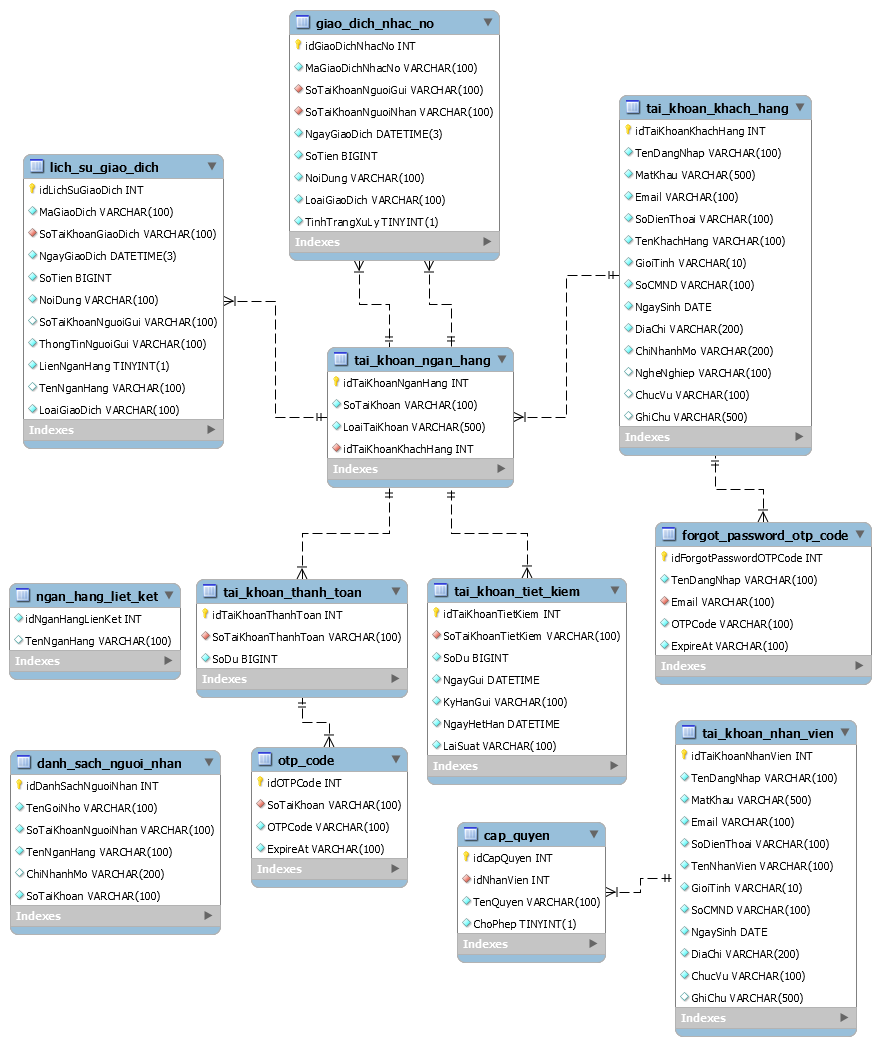
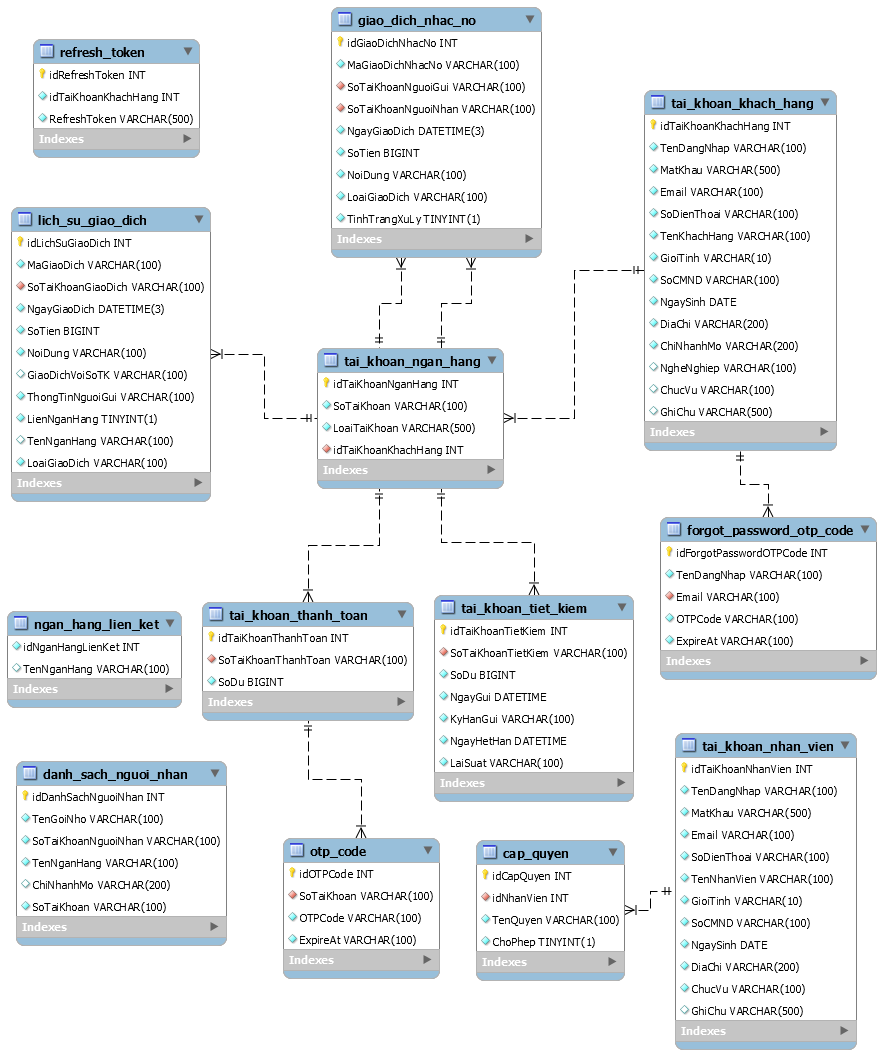
Thêm bảng RefreshToken, Đổi tên bảng ngan_hang_lien_ket, sửa lịch sử giao dịch "SoTaiKhoanNguoiGui"->"GiaoDichVoiSoTK"

Changed region(s): [[0.0, 0.0612, 1.0, 1.0], [0.3061, 0.0, 0.6122, 0.4895], [0.0, 0.0306, 0.2755, 0.4895]]

diff --git a/test/exchangeAdmin.js b/test/exchangeAdmin.js
@@ -3,7 +3,7 @@
 //     "NgayGiaoDich": "2020/1/1",
 //     "SoTien": 5000,
 //     "NoiDung": "A chuyen tien B",
-//     "SoTaiKhoanNguoiGui": "",
+//     "GiaoDichVoiSoTK": "",
 //     "ThongTinNguoiGui": "Nhan vien A chuyen tien",
 //     "LienNganHang": 0,
 //     "TenNganHang": "",
@@ -15,7 +15,7 @@
 //     "NgayGiaoDich": "2020/1/1",
 //     "SoTien": 5000,
 //     "NoiDung": "A chuyen tien B",
-//     "SoTaiKhoanNguoiGui": "",
+//     "GiaoDichVoiSoTK": "",
 //     "ThongTinNguoiGui": "Nhan vien A chuyen tien",
 //     "LienNganHang": 0,
 //     "TenNganHang": "",
@@ -28,7 +28,7 @@
 //     "NgayGiaoDich": "2020/1/1",
 //     "SoTien": 5000,
 //     "NoiDung": "A chuyen tien B",
-//     "SoTaiKhoanNguoiGui": "",
+//     "GiaoDichVoiSoTK": "",
 //     "ThongTinNguoiGui": "Nhan vien A chuyen tien",
 //     "LienNganHang": 0,
 //     "TenNganHang": "",
@@ -40,7 +40,7 @@
 //     "NgayGiaoDich": "2020/1/1",
 //     "SoTien": "abc",
 //     "NoiDung": "A chuyen tien B",
-//     "SoTaiKhoanNguoiGui": "",
+//     "GiaoDichVoiSoTK": "",
 //     "ThongTinNguoiGui": "Nhan vien A chuyen tien",
 //     "LienNganHang": 0,
 //     "TenNganHang": "",
@@ -52,7 +52,7 @@
 //     "NgayGiaoDich": "2020/1/1",
 //     "SoTien": 50000,
 //     "NoiDung": "A chuyen tien B",
-//     "SoTaiKhoanNguoiGui": "",
+//     "GiaoDichVoiSoTK": "",
 //     "ThongTinNguoiGui": "Nhan vien A chuyen tien",
 //     "LienNganHang": 0,
 //     "TenNganHang": "abc",
@@ -65,7 +65,7 @@
 //     "NgayGiaoDich": "2020/1/1",
 //     "SoTien": 50000,
 //     "NoiDung": "A chuyen tien B",
-//     "SoTaiKhoanNguoiGui": "",
+//     "GiaoDichVoiSoTK": "",
 //     "ThongTinNguoiGui": "Nhan vien A chuyen tien",
 //     "LienNganHang": 1,
 //     "TenNganHang": "AGRIBANK",
@@ -77,7 +77,7 @@
 //     "NgayGiaoDich": "2020/1/1",
 //     "SoTien": 50000,
 //     "NoiDung": "A chuyen tien B",
-//     "SoTaiKhoanNguoiGui": "456456456",
+//     "GiaoDichVoiSoTK": "456456456",
 //     "ThongTinNguoiGui": "Nhan vien A chuyen tien",
 //     "LienNganHang": 1,
 //     "TenNganHang": "AGRIBANK",

diff --git a/Routes/Internal_AccountBank.route.js b/Routes/Internal_AccountBank.route.js
@@ -338,7 +338,7 @@ router.post('/my-account-number/internal-transfer', InternalOTPVerify, async (re
         "NgayGiaoDich": moment(ts).format("YYYY-MM-DD HH:mm:ss.SSS"), //thời điểm hiện tại
         "SoTien": payload.Amount-FeeDich,
         "NoiDung": payload.Message,
-        "SoTaiKhoanNguoiGui": payload.DestinationAccountNumber,
+        "GiaoDichVoiSoTK": payload.DestinationAccountNumber,
         "ThongTinNguoiGui": resultTenDangKy[0].TenKhachHang,
         "LienNganHang": 0,
         "TenNganHang": "25Bank",
@@ -554,7 +554,7 @@ router.post('/my-account-number/external-transfer', ExternalOTPVerify, async (re
         "NgayGiaoDich": moment(ts).format("YYYY-MM-DD HH:mm:ss.SSS"), //thời điểm hiện tại
         "SoTien": payload.Amount-FeeDich,
         "NoiDung": payload.Message,
-        "SoTaiKhoanNguoiGui": payload.DestinationAccountNumber,
+        "GiaoDichVoiSoTK": payload.DestinationAccountNumber,
         "ThongTinNguoiGui": payload.DestinationAccountName,
         "LienNganHang": 1,
         "TenNganHang": payload.BankName,
@@ -733,7 +733,7 @@ router.post('/my-account-number/debts-payment', InternalOTPVerify, async (req, r
         "NgayGiaoDich": moment(ts).format("YYYY-MM-DD HH:mm:ss.SSS"), //thời điểm hiện tại
         "SoTien": payload.Amount,
         "NoiDung": payload.Message,
-        "SoTaiKhoanNguoiGui": payload.DestinationAccountNumber,
+        "GiaoDichVoiSoTK": payload.DestinationAccountNumber,
         "ThongTinNguoiGui": resultTenDangKy[0].TenKhachHang,
         "LienNganHang": 0,
         "TenNganHang": "25Bank",

diff --git a/Models/Internal_AccountBank.model.js b/Models/Internal_AccountBank.model.js
@@ -12,7 +12,7 @@ module.exports={
     addOTPCode: entity => db.query("INSERT INTO otp_code set ?", entity),
     getOTPCode: (STK,OTPCode) => db.query("SELECT * FROM otp_code WHERE SoTaiKhoan = ? AND OTPCode = ?", [STK,OTPCode]),
     getKhachHang: STK => db.query("SELECT y.* FROM tai_khoan_ngan_hang x, tai_khoan_khach_hang y WHERE x.SoTaiKhoan = ? AND x.idTaiKhoanKhachHang = y.idTaiKhoanKhachHang AND x.LoaiTaiKhoan = 'thanh toán'",[STK]),
-    getNganHangLienKet: BankName => db.query("SELECT * FROM ngan_hang_liet_ket WHERE TenNganHang = ?", BankName),
+    getNganHangLienKet: BankName => db.query("SELECT * FROM ngan_hang_lien_ket WHERE TenNganHang = ?", BankName),
     getGiaoDichNhacNo: (ID, STKNguon, STKDich, SoTien) => db.query("SELECT * FROM giao_dich_nhac_no WHERE MaGiaoDichNhacNo = ? AND SoTaiKhoanNguoiGui = ? AND SoTaiKhoanNguoiNhan = ? AND SoTien = ? AND TinhTrangXuLy = 0", [ID,STKDich,STKNguon,SoTien]),
     updateTinhTrangXuLy: (ID) => db.query("UPDATE giao_dich_nhac_no SET TinhTrangXuLy = 1 WHERE MaGiaoDichNhacNo = ?",ID),
     addGiaoDichNhacNo: entity => db.query("INSERT INTO giao_dich_nhac_no set ?", entity)

diff --git a/Models/accounts.model.js b/Models/accounts.model.js
@@ -15,7 +15,7 @@ module.exports={
                         ON  a.SoTaiKhoan=b.SoTaiKhoanTietKiem 
                         WHERE a.SoTaiKhoan=${stk}`), 
     getNganHangLienKet: tennganhang => db.load(`SELECT *
-                        FROM ngan_hang_liet_ket a
+                        FROM ngan_hang_lien_ket a
                         WHERE a.TenNganHang='${tennganhang}'`),
     exchangeA: (stk, totalExchangeA) => db.load(`UPDATE tai_khoan_thanh_toan 
                                                 SET SoDu = SoDu -${totalExchangeA} 
@@ -31,7 +31,7 @@ module.exports={
     //             "NgayGiaoDich": "2020/1/1",
     //             "SoTien": 500,
     //             "NoiDung": "A chuyen tien B",
-    //             "SoTaiKhoanNguoiGui": "",
+    //             "GiaoDichVoiSoTK": "",
     //             "ThongTinNguoiGui": "Nhan vien A chuyen tien",
     //             "LienNganHang": 0,
     //             "TenNganHang": "",

diff --git a/Utils/ExternalFunction.js b/Utils/ExternalFunction.js
@@ -254,7 +254,7 @@ module.exports.rechargeExternalAccount = async (payload) => {
             //         "NgayGiaoDich": moment().format("YYYY-MM-DD HH:mm:ss.SSS"), //thời điểm hiện tại
             //         "SoTien": payload.Amount,
             //         "NoiDung": payload.Message,
-            //         "SoTaiKhoanNguoiGui": payload.DestinationAccountNumber,
+            //         "GiaoDichVoiSoTK": payload.DestinationAccountNumber,
             //         "ThongTinNguoiGui": payload.DestinationAccountName,
             //         "LienNganHang": 1,
             //         "TenNganHang": payload.DestinationBankName,

diff --git a/Routes/External_AccountBank.route.js b/Routes/External_AccountBank.route.js
@@ -194,7 +194,7 @@ router.post('/destination-account/recharge', async (req, res) => {
                     "NgayGiaoDich": moment().format("YYYY-MM-DD HH:mm:ss.SSS"), //thời điểm hiện tại
                     "SoTien": payload.Amount,
                     "NoiDung": payload.Message,
-                    "SoTaiKhoanNguoiGui": payload.DestinationAccountNumber,
+                    "GiaoDichVoiSoTK": payload.DestinationAccountNumber,
                     "ThongTinNguoiGui": payload.DestinationAccountName,
                     "LienNganHang": 1,
                     "TenNganHang": payload.DestinationBankName,

diff --git a/Models/Partner_AccountBank.model.js b/Models/Partner_AccountBank.model.js
@@ -4,5 +4,5 @@ module.exports={
     getTaiKhoanThanhToan: STK => db.query("SELECT * FROM tai_khoan_thanh_toan WHERE SoTaiKhoanThanhToan = ?",[STK]),
     updateSoDu: (STK,Amount) => db.query("UPDATE tai_khoan_thanh_toan SET SoDu = ? WHERE SoTaiKhoanThanhToan = ?",[Amount,STK]),
     addLichSuGiaoDich: entity => db.query("INSERT INTO lich_su_giao_dich set ?", entity),
-    checkBankPartner: BankName => db.query(`SELECT * FROM ngan_hang_liet_ket WHERE TenNganHang = '${BankName}'`)
+    checkBankPartner: BankName => db.query(`SELECT * FROM ngan_hang_lien_ket WHERE TenNganHang = '${BankName}'`)
 };

diff --git a/Models/External_AccountBank.model.js b/Models/External_AccountBank.model.js
@@ -3,5 +3,5 @@ module.exports={
 	getTaiKhoanThanhToan: STK => db.query("SELECT * FROM tai_khoan_thanh_toan WHERE SoTaiKhoanThanhToan = ?",[STK]),
 	updateSoDu: (STK,Amount) => db.query("UPDATE tai_khoan_thanh_toan SET SoDu = ? WHERE SoTaiKhoanThanhToan = ?",[Amount,STK]),
 	addLichSuGiaoDich: entity => db.query("INSERT INTO lich_su_giao_dich set ?", entity),
-    checkBankPartner: BankName => db.query(`SELECT * FROM ngan_hang_liet_ket WHERE TenNganHang = '${BankName}'`)
+    checkBankPartner: BankName => db.query(`SELECT * FROM ngan_hang_lien_ket WHERE TenNganHang = '${BankName}'`)
 };

diff --git a/test/test.js b/test/test.js
@@ -1,7 +1,7 @@
 // Test cho giao dich
 
 // {
-//     "SoTaiKhoanNguoiGui": "123123123",
+//     "GiaoDichVoiSoTK": "123123123",
 //     "SoTaiKhoanGiaoDich": "147147147",
 //     "SoTien": "2000",
 //     "NoiDung": " Chuyen tien",
@@ -11,9 +11,9 @@
 // }
 
 // Truong hop khong phai nhan vien ngan hang
-// && SoTaiKhoanNguoiGui sai
+// && GiaoDichVoiSoTK sai
 // {
-//     "SoTaiKhoanNguoiGui": "555",
+//     "GiaoDichVoiSoTK": "555",
 //     "SoTaiKhoanGiaoDich": "147147147",
 //     "SoTien": "2000",
 //     "NoiDung": " Chuyen tien",

diff --git a/Routes/Partner_AccountBank.route.js b/Routes/Partner_AccountBank.route.js
@@ -139,7 +139,7 @@ router.post('/destination-account/recharge', DecryptAndVerfify, async (req, res)
         "NgayGiaoDich": moment().format("YYYY-MM-DD HH:mm:ss.SSS"), //thời điểm hiện tại
         "SoTien": payload.Amount,
         "NoiDung": payload.Message,
-        "SoTaiKhoanNguoiGui": payload.SourceAccountNumber,
+        "GiaoDichVoiSoTK": payload.SourceAccountNumber,
         "ThongTinNguoiGui": payload.SourceAccountName,
         "LienNganHang": 1,
         "TenNganHang": payload.BankName,
